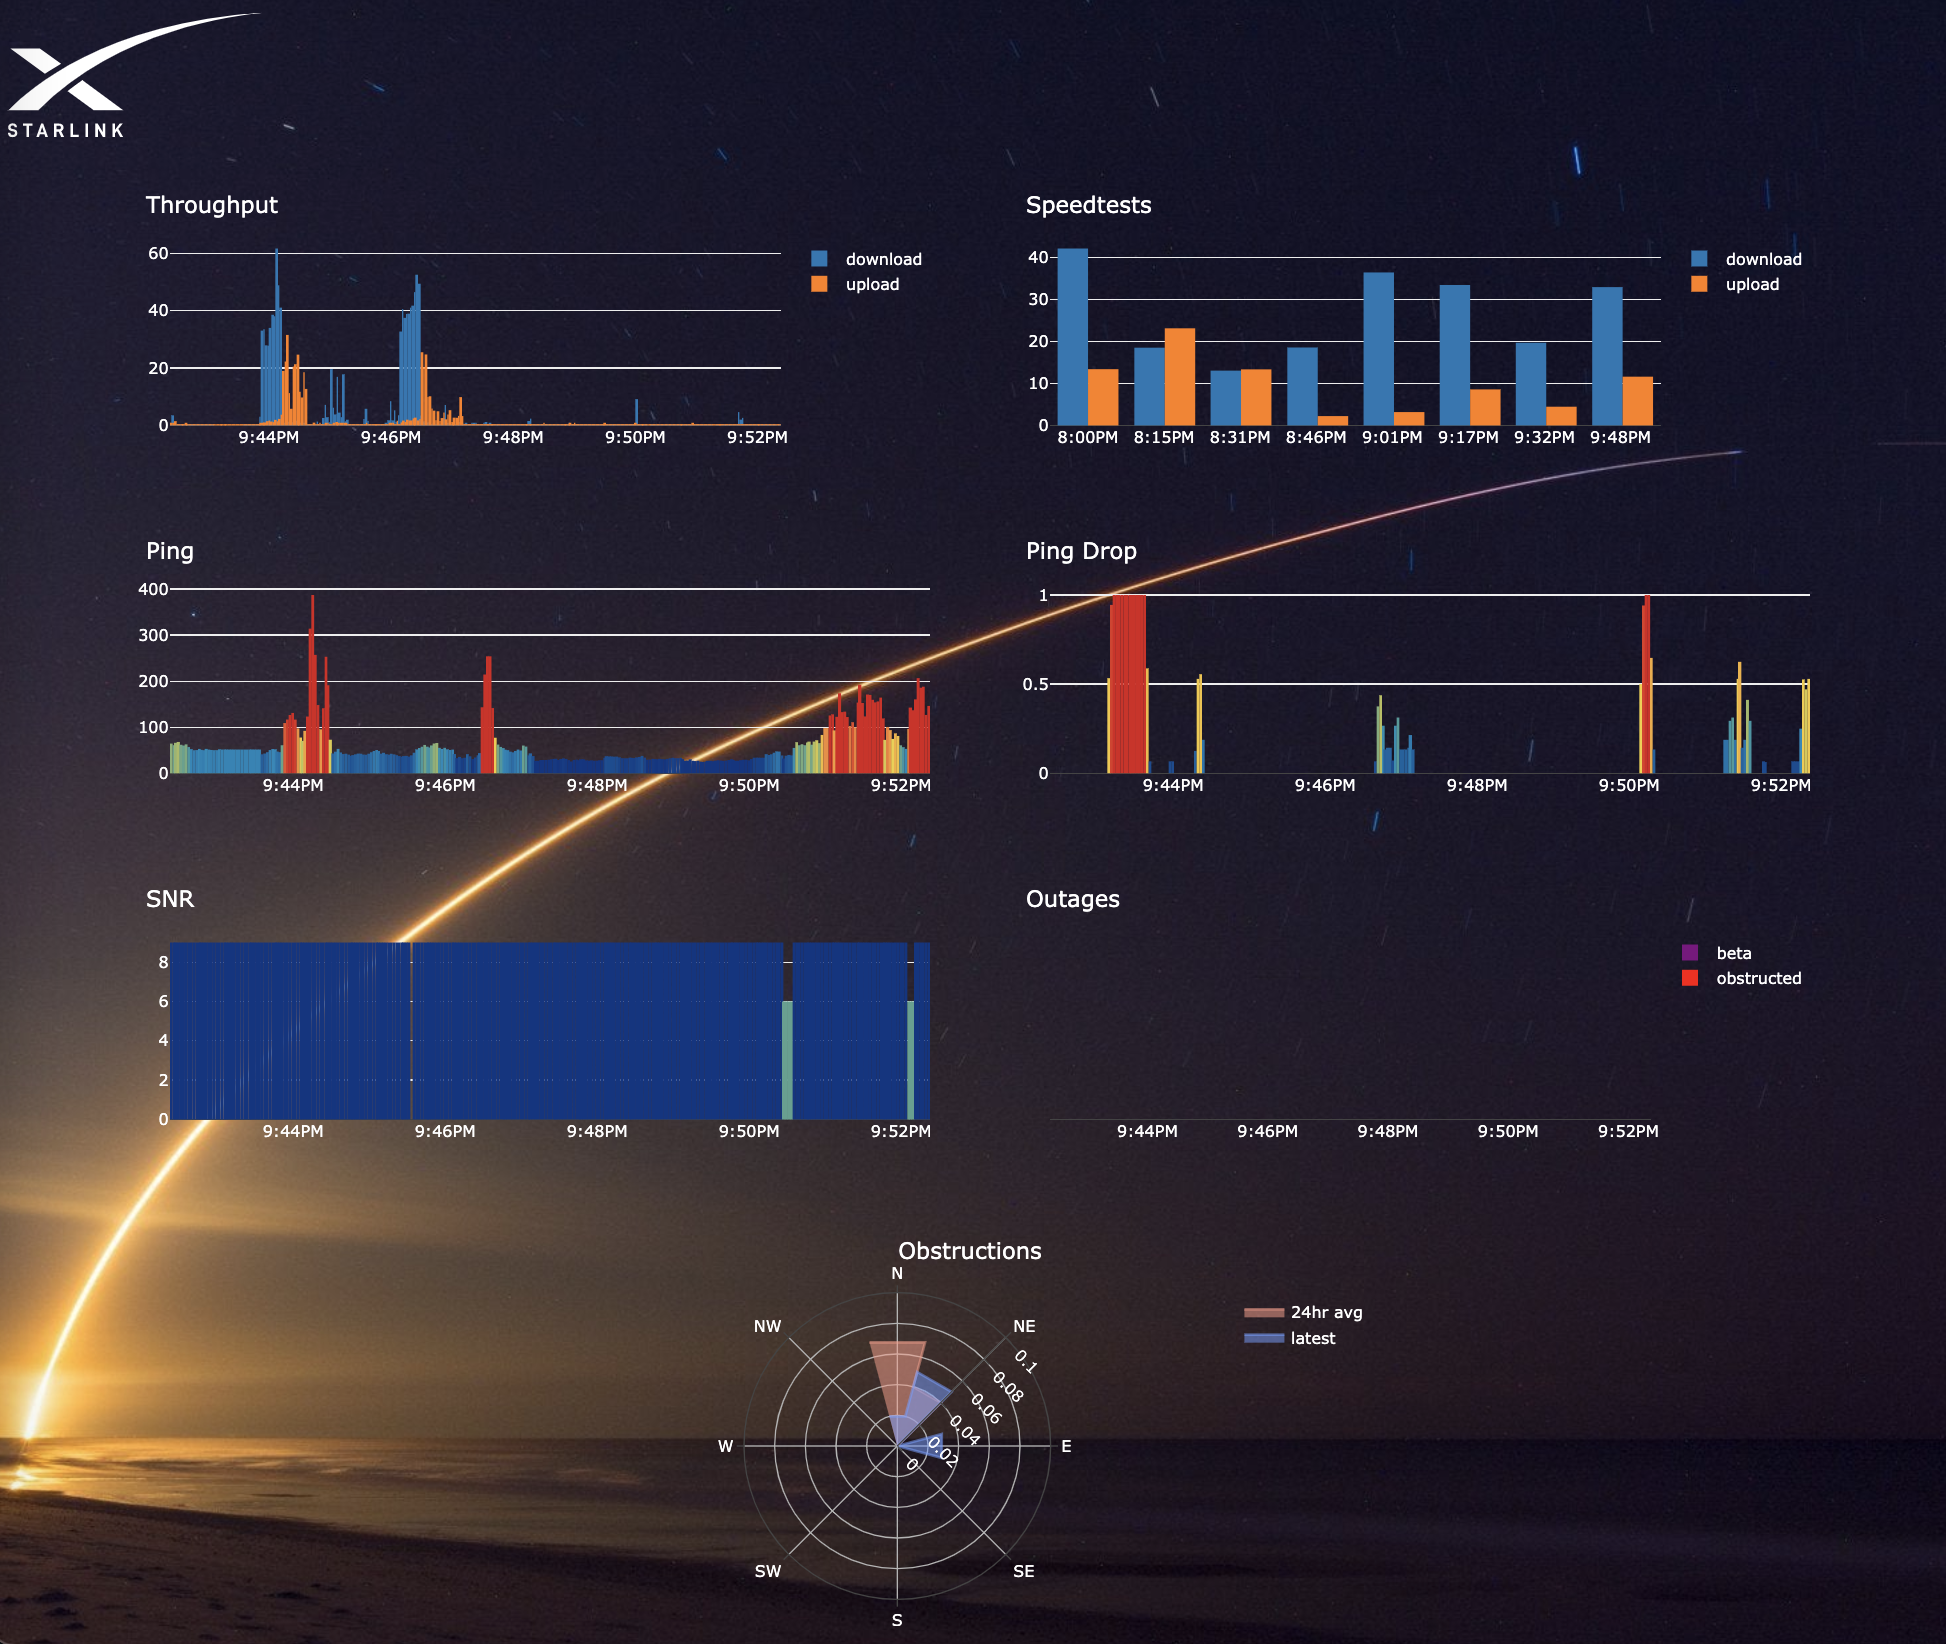
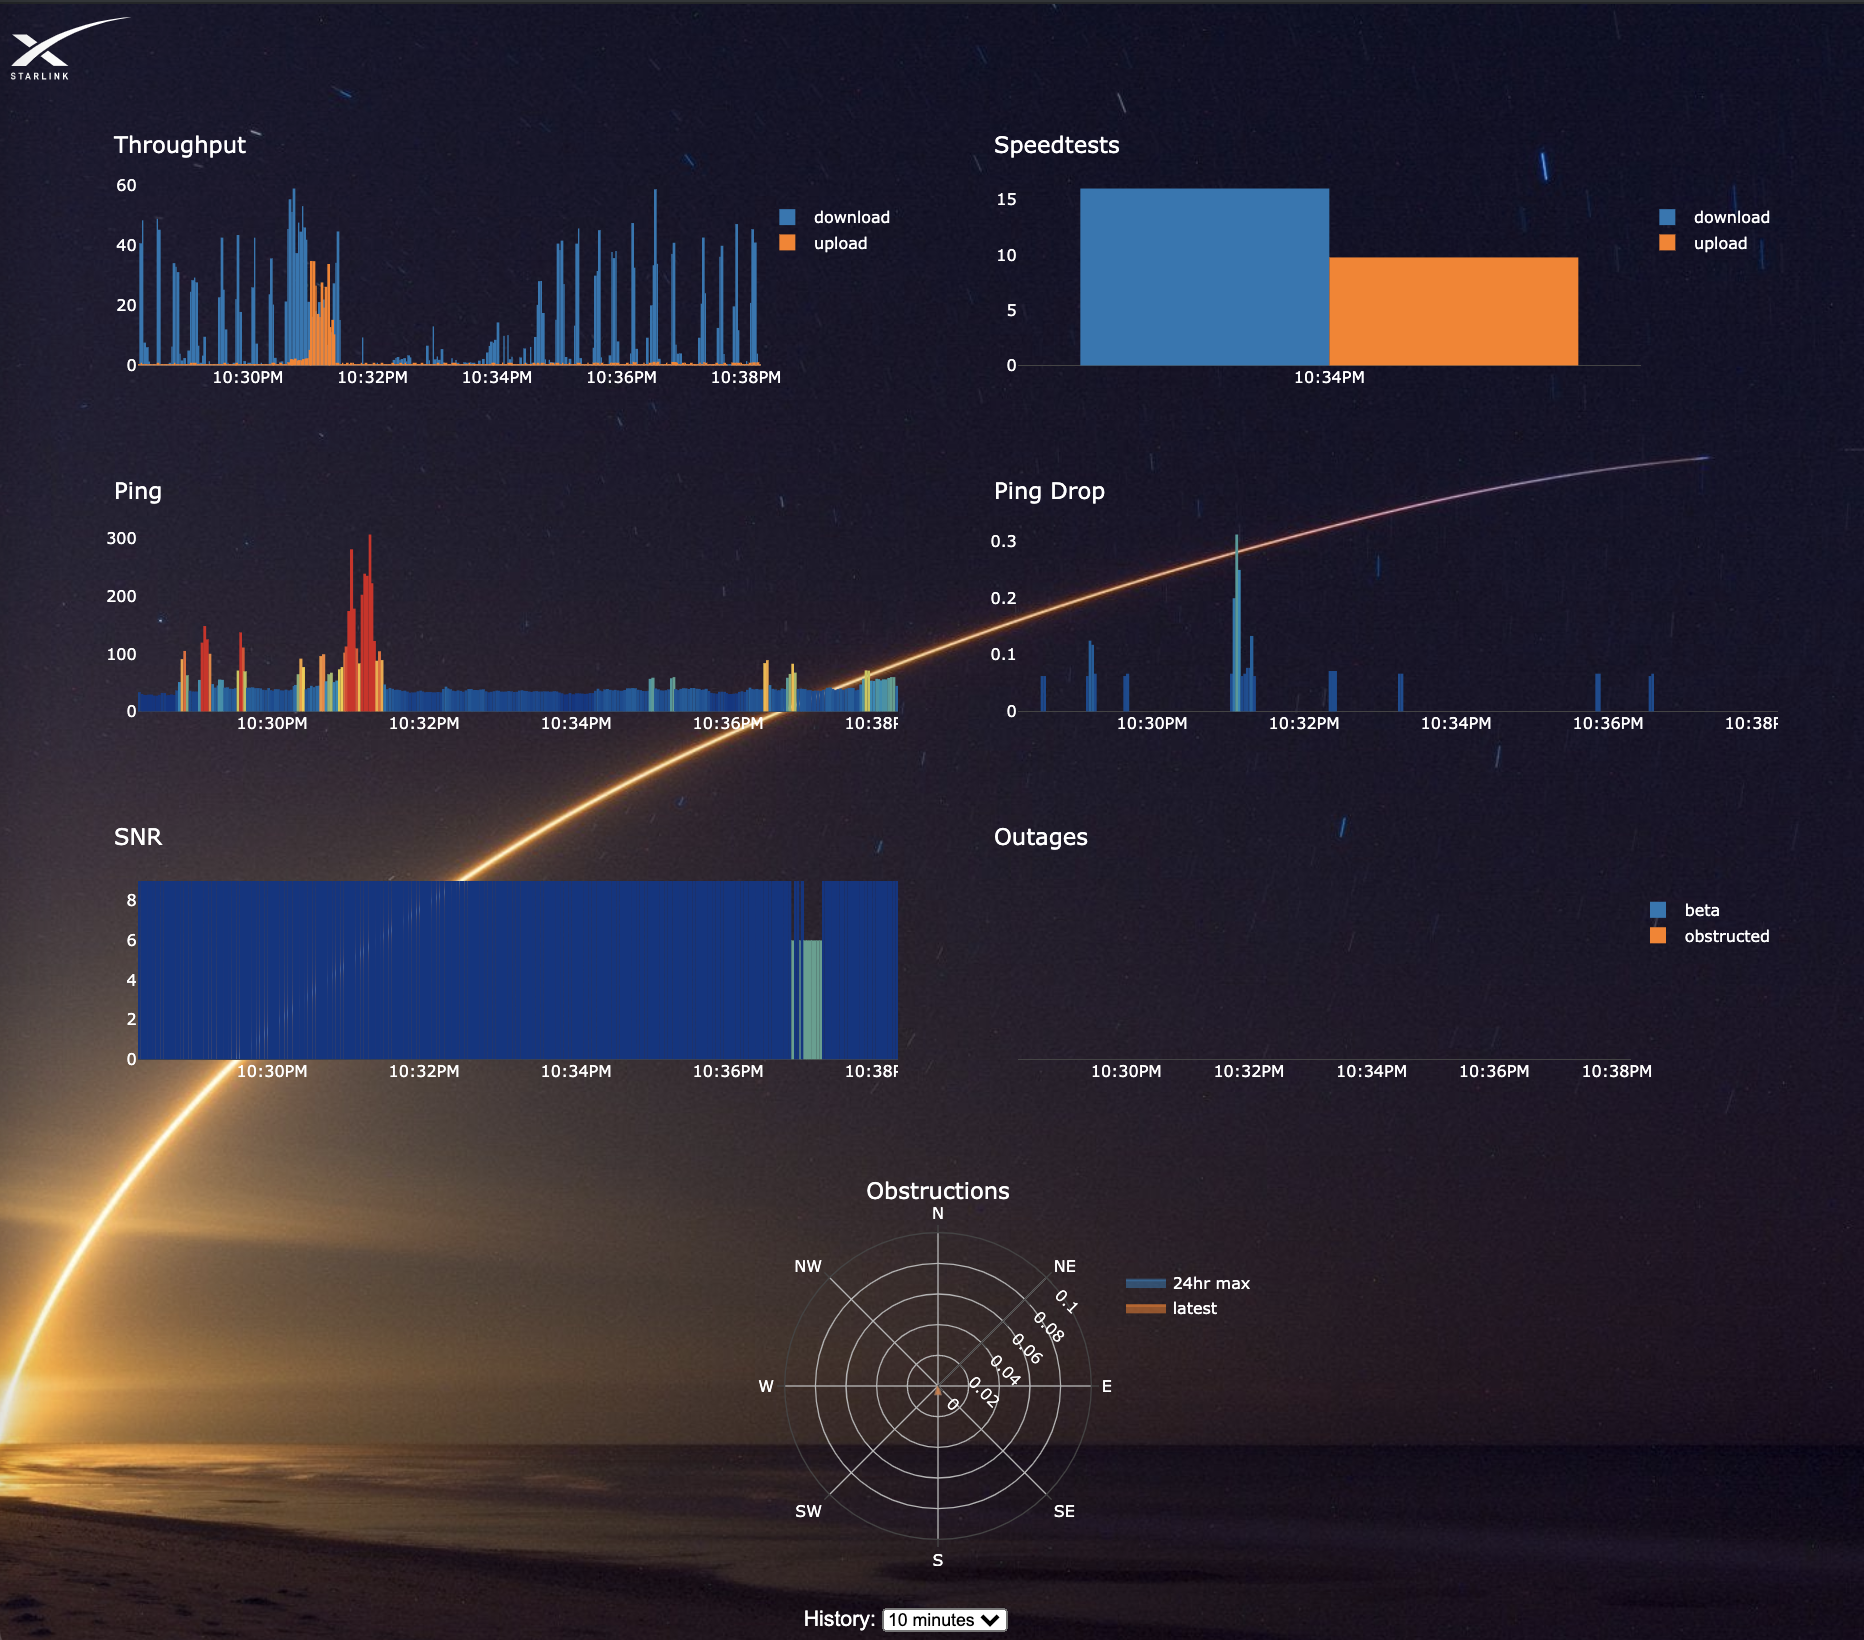
fine tuning

diff --git a/app/static/index.js b/app/static/index.js
@@ -30,9 +30,9 @@ const layout = (title, showlegend=false) => {
     showlegend: showlegend,
     legend: {
       x: 1,
-      xanchor: 'right',
+      xanchor: 'left',
       y: 0.9,
-      bgcolor: '#fff3',
+      bgcolor: '#fff0',
     },
     autoscale: true,
     margin: {pad: 0, l: 30, r: 0, t: 40, b: 20, autoexpand: true},
@@ -161,7 +161,7 @@ const renderOutages = (data) => {
     type: 'bar',
     name: 'beta',
     marker: {
-      'color': 'purple',
+      'color': d3colors[0]
     }
   }, {
     x: x,
@@ -169,7 +169,7 @@ const renderOutages = (data) => {
     type: 'bar',
     name: 'obstructed',
     marker: {
-      'color': 'red',
+      'color': d3colors[1]
     }
   }]
   const lout = layout('Outages', true)
@@ -206,21 +206,21 @@ const renderSpeedTest = (data) => {
 
 const renderObstructionMap = (data) => {
   const obst = data.starlink[data.starlink.length - 1].obstructionStats
-  const avg24 = obst.wedgeFractionObstructed.map((w, i) => {
+  const max24 = obst.wedgeFractionObstructed.map((w, i) => {
     const vals = data.starlink.map(r => r.obstructionStats.wedgeFractionObstructed[i])
-    return vals.reduce((l, r) => l + r, 0) / vals.length
+    return vals.reduce((l, r) => Math.max(l, r), 0)
   })
 
   const pdata = [{
     type: 'scatterpolar',
     mode: 'lines',
-    name: '24hr avg',
-    r: avg24.map(w => [w, w]).reduce((l, r) => l.concat(r), []),
-    theta: avg24.map((w, i) => [i * 30 - 15, i * 30 + 15]).reduce((l, r) => l.concat(r), []),
+    name: '24hr max',
+    r: max24.map(w => [w, w]).reduce((l, r) => l.concat(r), []),
+    theta: max24.map((w, i) => [i * 30 - 15, i * 30 + 15]).reduce((l, r) => l.concat(r), []),
     fill: 'toself',
-    fillcolor: '#FF9B8888',
+    fillcolor: d3colors[0] + '88',
     line: {
-      color: '#FF9B8888'
+      color: d3colors[0] + '88'
     }
   }, {
     type: 'scatterpolar',
@@ -229,9 +229,9 @@ const renderObstructionMap = (data) => {
     r: obst.wedgeFractionObstructed.map(w => [w, w]).reduce((l, r) => l.concat(r), []),
     theta: obst.wedgeFractionObstructed.map((w, i) => [i * 30 - 15, i * 30 + 15]).reduce((l, r) => l.concat(r), []),
     fill: 'toself',
-    fillcolor: '#709BFF88',
+    fillcolor: d3colors[1] + '88',
     line: {
-      color: '#709BFF88'
+      color: d3colors[1] + '88'
     }
   }]
 
@@ -242,7 +242,7 @@ const renderObstructionMap = (data) => {
       x: 0.9,
       xanchor: 'right',
       y: 0.9,
-      bgcolor: '#fff3',
+      bgcolor: '#fff0',
     },
     paper_bgcolor: '#fff0',
     polar: {
@@ -253,7 +253,7 @@ const renderObstructionMap = (data) => {
         },
         angle: 45,
         visible: true,
-        range: [0, 0.1],
+        range: [0, max24.reduce((l, r) => Math.max(l, r), 0.1)],
       },
       angularaxis: {
         tickfont: {

diff --git a/app/static/index.html b/app/static/index.html
@@ -30,7 +30,7 @@
     </style>
   </head>
   <body>
-    <img src="starlink.svg" alt="Better than nothing beta" style="height:100px"/>
+    <img src="starlink.svg" alt="Better than nothing beta" style="height:50px"/>
     <div class="flex-container">
       <div id="throughput"></div>
       <div id="speedtests"></div>
